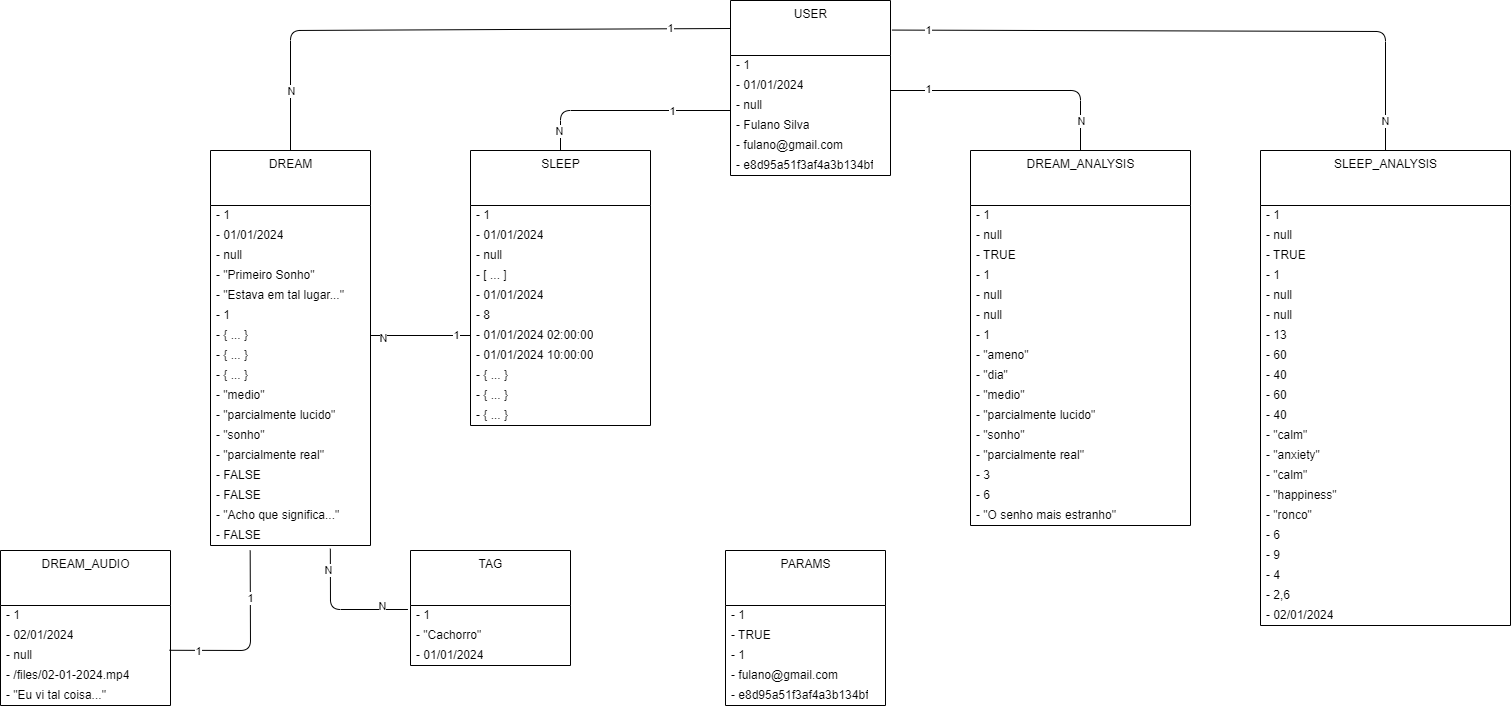
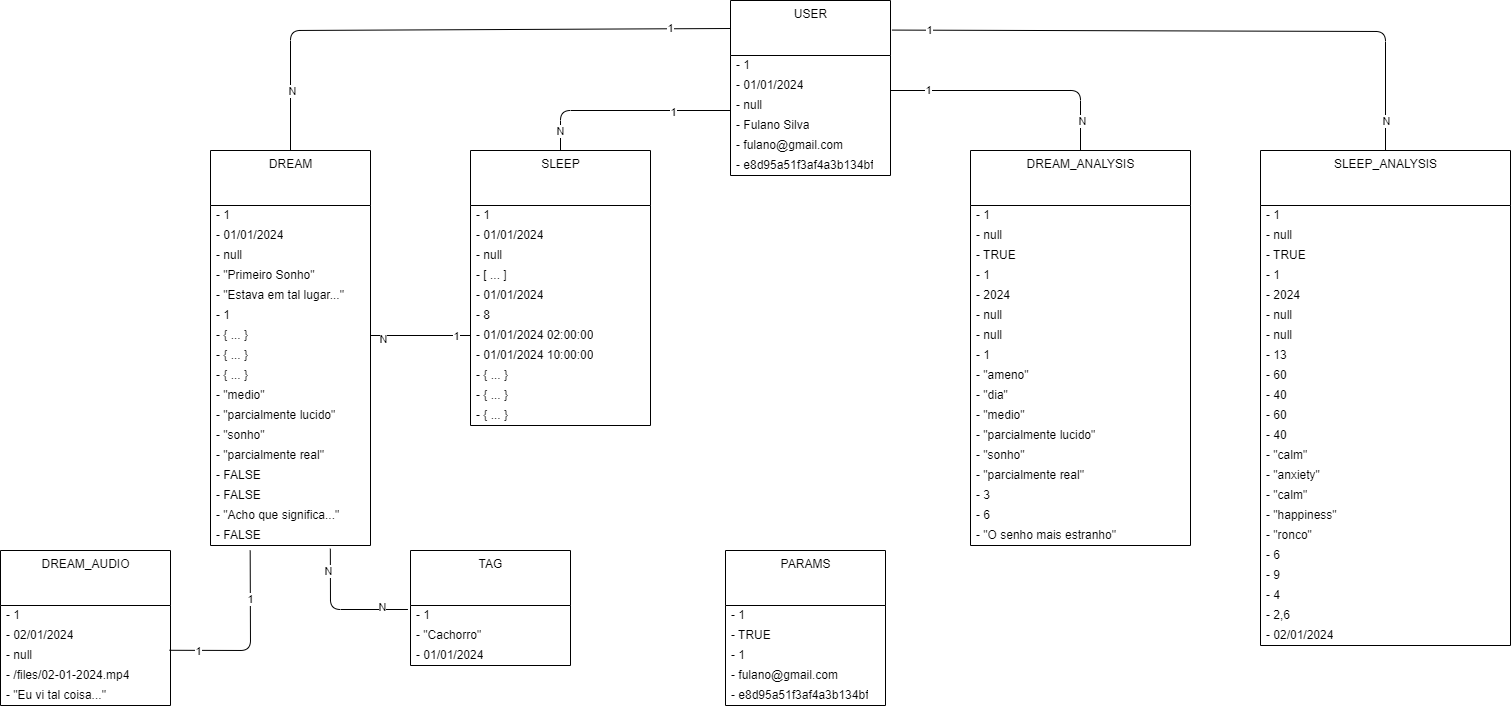
Ajuste de propriedades na análise de sono e sonho.

diff --git a/app/models/dream_analysis.ts b/app/models/dream_analysis.ts
@@ -12,16 +12,20 @@ export default class DreamAnalysis extends BaseModel {
   declare isMonthAnalysis: boolean
 
   /** Mês */
-  @column.date()
-  declare month: DateTime
+  @column()
+  declare month: number
+
+  /** Mês */
+  @column()
+  declare year: number
 
   /** Início da semana */
   @column.date()
-  declare weekStart: DateTime
+  declare weekStart: DateTime | null
 
   /** Fim da semana */
   @column.date()
-  declare weekEnd: DateTime
+  declare weekEnd: DateTime | null
 
   /** Ponto de vista de sonho de maior ocorrência */
   @column()

diff --git a/app/models/sleep_analysis.ts b/app/models/sleep_analysis.ts
@@ -12,16 +12,20 @@ export default class SleepAnalysis extends BaseModel {
   declare isMonthAnalysis: boolean
 
   /** Mês */
-  @column.date()
-  declare month: DateTime
+  @column()
+  declare month: number
+
+  /** Ano */
+  @column()
+  declare year: number
 
   /** Início da semana */
   @column.date()
-  declare weekStart: DateTime
+  declare weekStart: DateTime | null
 
   /** Fim da semana */
   @column.date()
-  declare weekEnd: DateTime
+  declare weekEnd: DateTime | null
 
   /** Contagem de sonhos */
   @column()

diff --git a/database/migrations/1726101652017_create_dream_analysis_table.ts b/database/migrations/1726101652017_create_dream_analysis_table.ts
@@ -7,7 +7,8 @@ export default class extends BaseSchema {
     this.schema.createTable(this.tableName, (table) => {
       table.increments('id')
       table.boolean('is_month_anaylsis').notNullable().defaultTo(false)
-      table.date('month').notNullable()
+      table.integer('month').notNullable()
+      table.integer('year').notNullable()
       table.date('week_start')
       table.date('week_end')
       table.string('most_point_of_view_occurence').notNullable()

diff --git a/database/migrations/1726101686385_create_sleep_analysis_table.ts b/database/migrations/1726101686385_create_sleep_analysis_table.ts
@@ -7,7 +7,8 @@ export default class extends BaseSchema {
     this.schema.createTable(this.tableName, (table) => {
       table.increments('id')
       table.boolean('is_month_anaylsis').notNullable().defaultTo(false)
-      table.date('month').notNullable()
+      table.integer('month').notNullable()
+      table.integer('year').notNullable()
       table.date('week_start')
       table.date('week_end')
       table.integer('dreams_count').notNullable()
